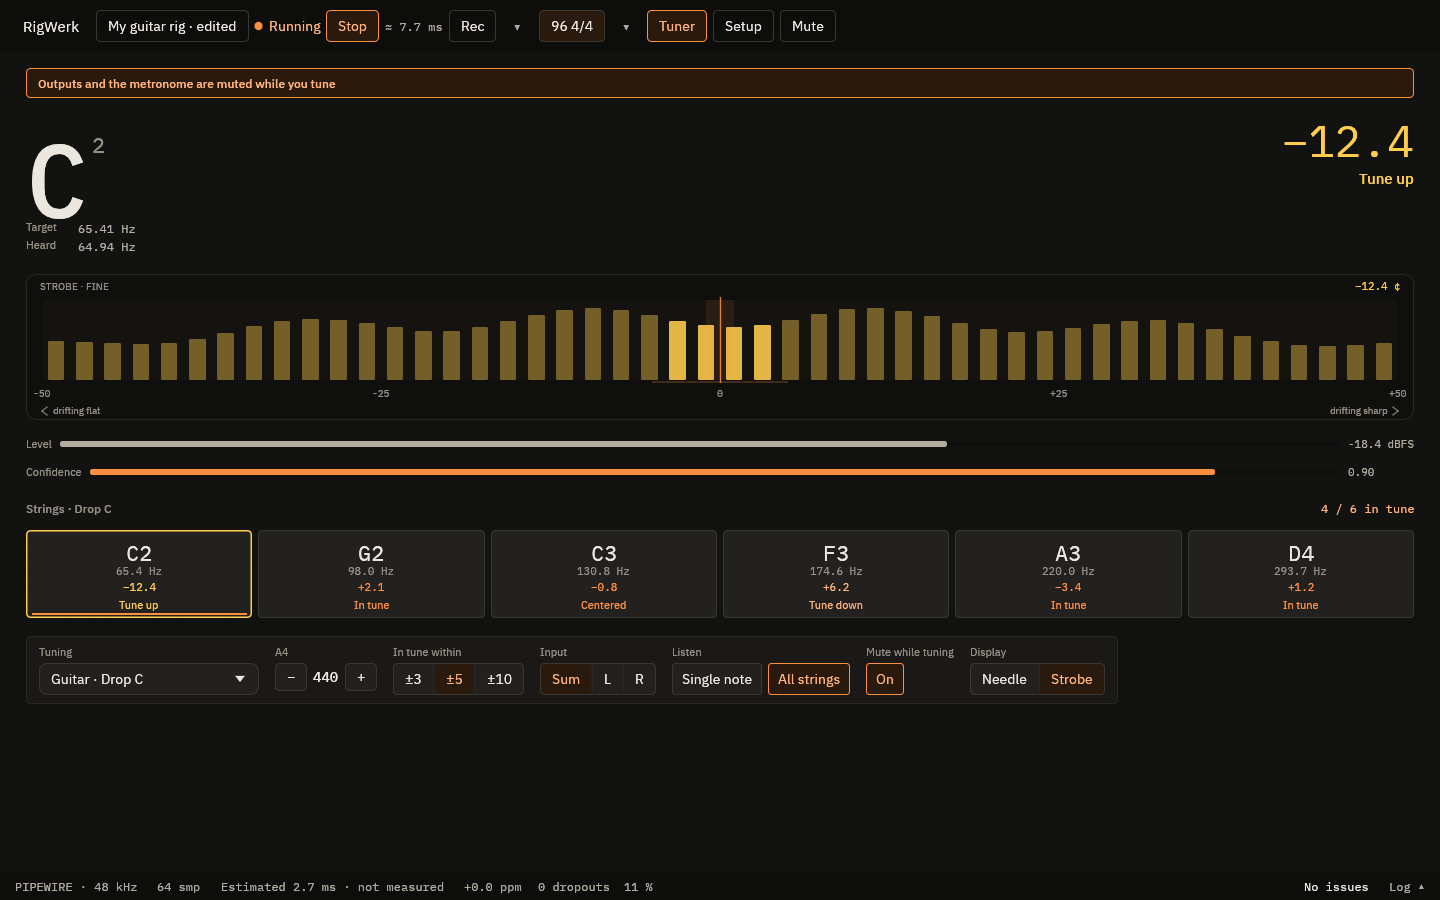
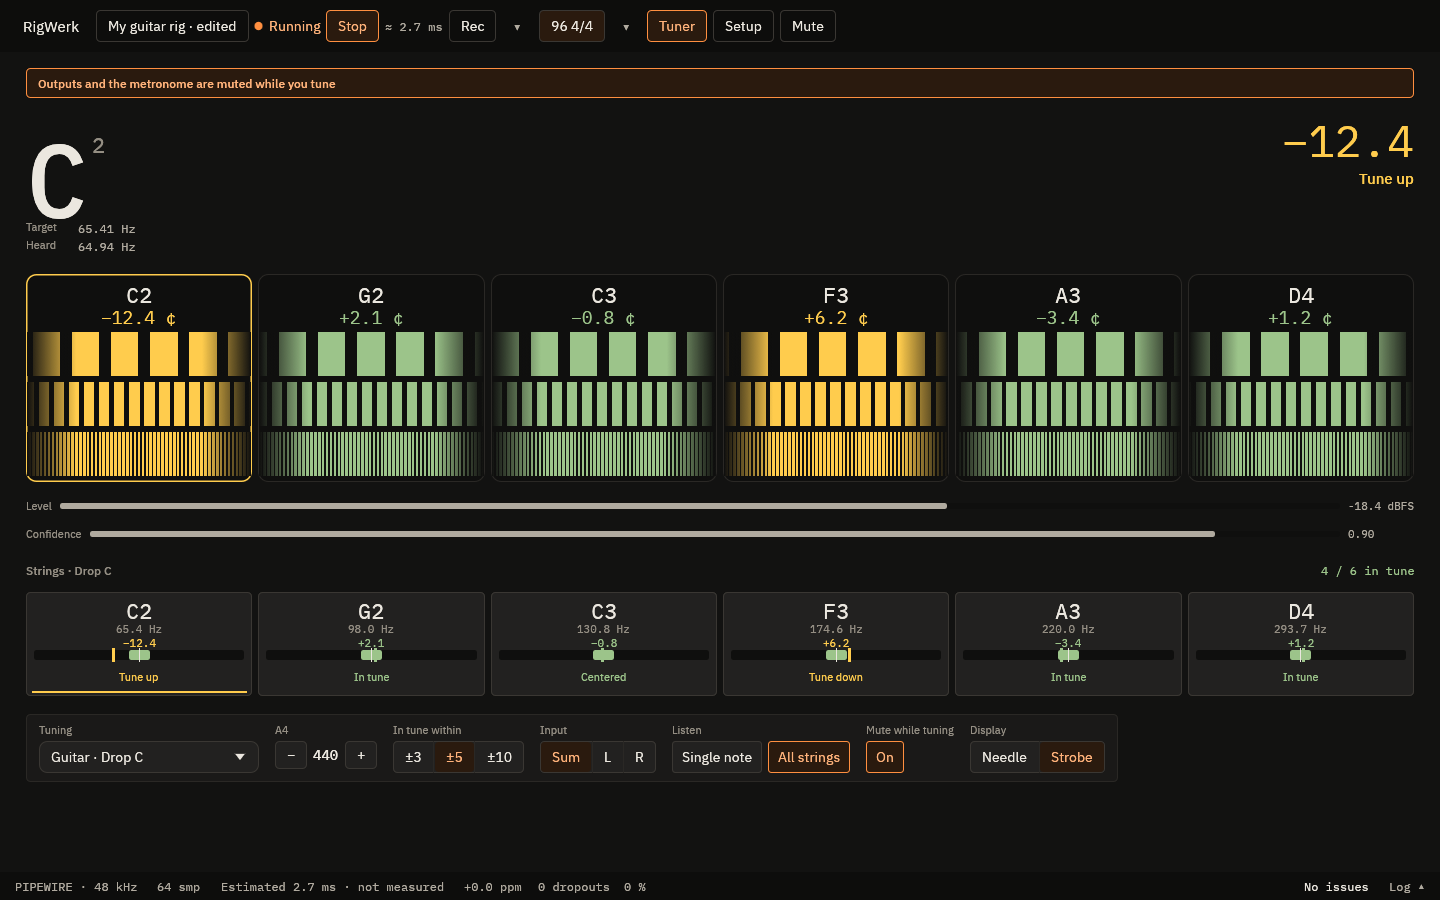
Retake the tuner screenshot
- All strings draws one strobe per string, so the README image showed the old single face
- The large note still follows one string, and the manual says so

diff --git a/docs/manual.md b/docs/manual.md
@@ -195,8 +195,8 @@ and its cents above the gauge. Level and confidence run underneath.
 Pick Chromatic, or one of the 20 tunings (6, 7 and 8-string guitar; 4, 5
 and 6-string bass). A tuning shows one cell per string with its note,
 target frequency, cents and a mark, and reads every string from a single
-strum. All strings keeps one string on the big face while it sounds: the
-furthest sounding string, or the one you pin. The bottom bar sets the
+strum. The large note follows the sounding string furthest from its
+target, or the one you pin. The bottom bar sets the
 tuning, A4, the in-tune tolerance (±3, ±5 or ±10 cents), the input
 channel (L, R or Sum), *Listen* (single note or all strings), *Mute while
 tuning* and the display (needle or strobe).
